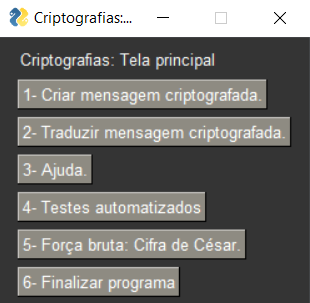
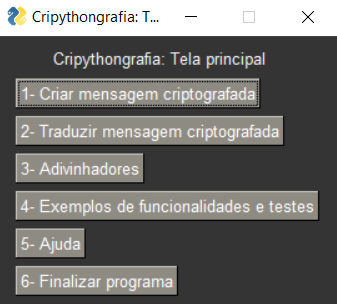
Quase pronto...

diff --git a/main.py b/main.py
@@ -11,21 +11,22 @@ lista_adivinhadores_disponiveis = ['Força bruta César', 'Adivinhador César']
 dic_opçoes_disponiveis = {'Cifra de César': ['apenas letras', 'vários caracteres'],
                           'Substituição simples':['apenas letras', 'vários caracteres'],
                           'Cifra de Vigenère':['apenas letras', 'vários caracteres']}
-dic_link_cifras = {'Cifra de César':'https://github.com/GregorioFornetti/Programa-criptografia/wiki/Cifra-de-C%C3%A9sar',
+dic_links = {'Cifra de César':'https://github.com/GregorioFornetti/Programa-criptografia/wiki/Cifra-de-C%C3%A9sar',
                    'Substituição simples':'https://github.com/GregorioFornetti/Programa-criptografia/wiki/Cifra-de-substitui%C3%A7%C3%A3o-simples',
-                   'Cifra de Vigenère':'https://github.com/GregorioFornetti/Programa-criptografia/wiki/Cifra-de-Vigen%C3%A8re'}
+                   'Cifra de Vigenère':'https://github.com/GregorioFornetti/Programa-criptografia/wiki/Cifra-de-Vigen%C3%A8re',
+                   'Wiki':'https://github.com/GregorioFornetti/Cripythongrafia/wiki'}
 
 def main():
     # Layout da interface principal do programa.
-    layout_principal =  [[sg.Text('Criptografias: Tela principal')],
-                        [sg.Button('1- Criar mensagem criptografada.', key='1')],
-                        [sg.Button('2- Traduzir mensagem criptografada.', key='2')],
-                        [sg.Button('3- Ajuda.', key='3')],
-                        [sg.Button('4- Testes automatizados', key='4')],
-                        [sg.Button('5- Adivinhadores', key='5')],
+    layout_principal =  [[sg.Text('       Cripythongrafia: Tela principal')],
+                        [sg.Button('1- Criar mensagem criptografada', key='1')],
+                        [sg.Button('2- Traduzir mensagem criptografada', key='2')],
+                        [sg.Button('3- Adivinhadores', key='3')],
+                        [sg.Button('4- Exemplos de funcionalidades e testes', key='4')],
+                        [sg.Button('5- Ajuda', key='5')],
                         [sg.Button('6- Finalizar programa', key='6')]]
     # Criar a interface principal do programa, utilizando o layout a cima.
-    tela_principal = sg.Window('Criptografias: Tela principal',layout_principal)
+    tela_principal = sg.Window('Cripythongrafia: Tela principal',layout_principal)
     while True:  # Loop que verifica cada interação do usuário com o programa.
         evento, valores = tela_principal.read()
         if evento in ('6', None):
@@ -33,25 +34,24 @@ def main():
             tela_principal.close()
             break
         if evento == '1':
-            # Esconder a tela principal e iniciar a interface "encriptar".
+            # Iniciar interface "encriptar".
             tela_principal.Hide()
             menu_encriptar(tela_principal)
         if evento == '2':
-            # Esconder a tela principal e iniciar a interface "traduzir".
+            # Iniciar a interface "traduzir".
             tela_principal.Hide()
             menu_traducao(tela_principal)
         if evento == '3':
-            # Esconder a tela principal e iniciar a interface "documentação".
+            # Inicar interface "adivinhador"
             tela_principal.Hide()
-            menu_documentacao(tela_principal)
+            menu_adivinhador(tela_principal)
         if evento == '4':
-            # Esconder a tela principal e iniciar a interface "testes automatizados".
+            # Iniciar a interface "testes automatizados".
             tela_principal.Hide()
             menu_testes(tela_principal)
         if evento == '5':
-            # Esconder a tela principal e inicar a interface "força bruta".
-            tela_principal.Hide()
-            menu_adivinhador(tela_principal)
+            # Abrir wiki ajuda
+            webbrowser.open(dic_links['Wiki'])
 
 
 def cria_layout_opcoes_enumeradas(titulo, lista_opcoes):
@@ -99,8 +99,8 @@ def retorna_layout_padrao_encriptaçao(titulo, criptografia):
 
 
 def menu_encriptar(tela_anterior):
-    layout_encriptar = cria_layout_opcoes_enumeradas('Cripythografia: encriptar', lista_criptografias_disponiveis)
-    tela_encriptar = sg.Window('Criptografias: encriptar', layout_encriptar)
+    layout_encriptar = cria_layout_opcoes_enumeradas('Cripythografia: Menu encriptação', lista_criptografias_disponiveis)
+    tela_encriptar = sg.Window('Cripythongrafia: Menu encriptação', layout_encriptar)
     while True:
         evento, valores = tela_encriptar.read()
         if evento in ('retornar', None):
@@ -116,8 +116,8 @@ def menu_encriptar(tela_anterior):
 
 
 def menu_traducao(tela_anterior):
-    layout_traduzir = cria_layout_opcoes_enumeradas('CripythonGrafia: traduzir', lista_criptografias_disponiveis)
-    tela_traduzir = sg.Window('Criptografias: traduzir', layout_traduzir)
+    layout_traduzir = cria_layout_opcoes_enumeradas('Cripythongrafia: Menu tradução', lista_criptografias_disponiveis)
+    tela_traduzir = sg.Window('Cripythongrafia: Menu tradução', layout_traduzir)
     while True:
         evento, valores = tela_traduzir.read()
         if evento in ('retornar', None):
@@ -133,14 +133,14 @@ def menu_traducao(tela_anterior):
 
 
 def menu_cesar_encriptar(tela_anterior):
-    layout_cesar_encript = retorna_layout_padrao_encriptaçao('PythonGrafia: Cifra de César (encriptação)', 'Cifra de César')
-    tela_cesar_encript = sg.Window('PythonGrafia: Cifra de César', layout_cesar_encript)
+    layout_cesar_encript = retorna_layout_padrao_encriptaçao(f"{'Cripythongrafia: Cifra de César (encriptação)':^110}", 'Cifra de César')
+    tela_cesar_encript = sg.Window('Cripythongrafia: Cifra de César', layout_cesar_encript)
     while True:
         evento, valores = tela_cesar_encript.read()
         if evento in ('retornar', None):
             voltar_para_tela_anterior(tela_anterior, tela_cesar_encript)
             break
-        verificar_eventos_gerais_cifras('Cifra de César', evento, tela_cesar_encript)
+        verificar_eventos_gerais('Cifra de César', evento, tela_cesar_encript)
         if evento == 'encriptar':
             if valores['apenas letras']:
                 print(cifra_de_cesar.encriptar_modo_apenas_letras(valores['chave'], valores['mensagem']))
@@ -149,14 +149,14 @@ def menu_cesar_encriptar(tela_anterior):
 
 
 def menu_cesar_traduzir(tela_anterior):
-    layout_cesar_traduc = retorna_layout_padrao_traduçao('PythonGrafia: Cifra de César (tradução)', 'Cifra de César')
-    tela_cesar_traduc = sg.Window('PythonGrafia: Cifra de César', layout_cesar_traduc)
+    layout_cesar_traduc = retorna_layout_padrao_traduçao(f"{'Cripythongrafia: Cifra de César (tradução)':^110}", 'Cifra de César')
+    tela_cesar_traduc = sg.Window('Cripythongrafia: Cifra de César', layout_cesar_traduc)
     while True:
         evento, valores = tela_cesar_traduc.read()
         if evento in ('retornar', None):
             voltar_para_tela_anterior(tela_anterior, tela_cesar_traduc)
             break
-        verificar_eventos_gerais_cifras('Cifra de César', evento, tela_cesar_traduc)
+        verificar_eventos_gerais('Cifra de César', evento, tela_cesar_traduc)
         if evento == 'traduzir':
             if valores['apenas letras']:
                 print(cifra_de_cesar.traduzir_modo_apenas_letras(valores['chave'], valores['mensagem']))
@@ -166,15 +166,15 @@ def menu_cesar_traduzir(tela_anterior):
 
 def menu_subst_simples_encriptar(tela_anterior):
     # Criando o layout da substituição simples.
-    layout_subst_encript = retorna_layout_padrao_encriptaçao('PythonGrafia: Substituição simples (encriptação)', 'Substituição simples')
+    layout_subst_encript = retorna_layout_padrao_encriptaçao(f"{'Cripythongrafia: Substituição simples (encriptação)':^110}", 'Substituição simples')
     layout_subst_encript = organiza_layout_subst_simples(layout_subst_encript)
-    tela_subst_encript = sg.Window('PythonGrafia: substituição simples', layout_subst_encript)
+    tela_subst_encript = sg.Window('Cripythongrafia: substituição simples', layout_subst_encript)
     while True:
         evento, valores = tela_subst_encript.read()
         if evento in ('retornar', None):
             voltar_para_tela_anterior(tela_anterior, tela_subst_encript)
             break
-        verificar_eventos_gerais_cifras('Substituição simples', evento, tela_subst_encript)
+        verificar_eventos_gerais('Substituição simples', evento, tela_subst_encript)
         if evento == 'encriptar':
             if valores['apenas letras']:
                 print(subst_simples.executar_modo_apenas_letras(valores['chave_1'], valores['chave_2'], valores['mensagem']))
@@ -183,15 +183,15 @@ def menu_subst_simples_encriptar(tela_anterior):
 
 
 def menu_subst_simples_traduzir(tela_anterior):
-    layout_subst_traduc = retorna_layout_padrao_traduçao('PythonGrafia: Substituição simples (tradução)', 'Substituição simples')
+    layout_subst_traduc = retorna_layout_padrao_traduçao(f"{'Cripythongrafia: Substituição simples (tradução)':^110}", 'Substituição simples')
     layout_subst_traduc = organiza_layout_subst_simples(layout_subst_traduc)
-    tela_subst_traduc = sg.Window('PythonGrafia: substituição simples', layout_subst_traduc)
+    tela_subst_traduc = sg.Window('Cripythongrafia: substituição simples', layout_subst_traduc)
     while True:
         evento, valores = tela_subst_traduc.read()
         if evento in ('retornar', None):
             voltar_para_tela_anterior(tela_anterior, tela_subst_traduc)
             break
-        verificar_eventos_gerais_cifras('Substituição simples', evento, tela_subst_traduc)
+        verificar_eventos_gerais('Substituição simples', evento, tela_subst_traduc)
         if evento == 'traduzir':
             if valores['apenas letras']:
                 print(subst_simples.executar_modo_apenas_letras(valores['chave_2'], valores['chave_1'], valores['mensagem']))
@@ -208,14 +208,14 @@ def organiza_layout_subst_simples(layout):
 
 
 def menu_vigenere_encriptar(tela_anterior):
-    layout_vigenere_encript = retorna_layout_padrao_encriptaçao('PythonGrafia: Cifra de Vigenère (encriptação)', 'Cifra de Vigenère')
-    tela_vigenere_encript = sg.Window('PythonGrafia: Cifra de Vigenère', layout_vigenere_encript)
+    layout_vigenere_encript = retorna_layout_padrao_encriptaçao(f"{'Cripythongrafia: Cifra de Vigenère (encriptação)':^110}", 'Cifra de Vigenère')
+    tela_vigenere_encript = sg.Window('Cripythongrafia: Cifra de Vigenère', layout_vigenere_encript)
     while True:
         evento, valores = tela_vigenere_encript.read()
         if evento in ('retornar', None):
             voltar_para_tela_anterior(tela_anterior, tela_vigenere_encript)
             break
-        verificar_eventos_gerais_cifras('Cifra de Vigenère', evento, tela_vigenere_encript)
+        verificar_eventos_gerais('Cifra de Vigenère', evento, tela_vigenere_encript)
         if evento == 'encriptar':
             if valores['apenas letras']:
                 print(cifra_de_vigenere.encriptar_modo_apenas_letras(valores['chave'], valores['mensagem']))
@@ -224,14 +224,14 @@ def menu_vigenere_encriptar(tela_anterior):
 
 
 def menu_vigenere_traduzir(tela_anterior):
-    layout_vigenere_traduc = retorna_layout_padrao_traduçao('PythonGrafia: Cifra de Vigenère (tradução)', 'Cifra de Vigenère')
-    tela_vigenere_traduc = sg.Window('PythonGrafia: Cifra de Vigenère', layout_vigenere_traduc)
+    layout_vigenere_traduc = retorna_layout_padrao_traduçao(f"{'Cripythongrafia: Cifra de Vigenère (tradução)':^110}", 'Cifra de Vigenère')
+    tela_vigenere_traduc = sg.Window('Cripythongrafia: Cifra de Vigenère', layout_vigenere_traduc)
     while True:
         evento, valores = tela_vigenere_traduc.read()
         if evento in ('retornar', None):
             voltar_para_tela_anterior(tela_anterior, tela_vigenere_traduc)
             break
-        verificar_eventos_gerais_cifras('Cifra de Vigenère', evento, tela_vigenere_traduc)
+        verificar_eventos_gerais('Cifra de Vigenère', evento, tela_vigenere_traduc)
         if evento == 'traduzir':
             if valores['apenas letras']:
                 print(cifra_de_vigenere.traduzir_modo_apenas_letras(valores['chave'], valores['mensagem']))
@@ -239,49 +239,29 @@ def menu_vigenere_traduzir(tela_anterior):
                 print(cifra_de_vigenere.traduzir_modo_varios_caracteres(valores['chave'], valores['mensagem']))
 
 
-def menu_documentacao(tela_anterior):
-    # Layou do menu de ajuda.
-    layout_documentacao = [[sg.Text('        Menu de ajuda         ')],
-                          [sg.Text('Na opção 1 do menu principal, escolha uma cifra, uma mensagem')],
-                          [sg.Text('e uma chave, e caso a chave seja valida, será imprimido uma mensagem encriptada')],
-                          [sg.Text('Na opção 2 do menu principal, escolha uma cifra, uma mensagem encriptada')],
-                          [sg.Text('e uma chave, e caso a chave seja valida, será imprimido uma mensagem traduzida')],
-                          [sg.Text('Na opção 4, é possível ver alguns testes, que podem ajudar no entendimento')],
-                          [sg.Text('das cifras disponiveis e suas funcionalidades.')],
-                          [sg.Text('Acesse o site abaixo para ter mais informações:')],
-                          [sg.Output()],
-                          [sg.Button('Retornar',key='retornar')]]
-    tela_doc = sg.Window('Menu ajuda', layout_documentacao)
-    ja_mostrou = False
-    while True:
-        evento, valores = tela_doc.read(timeout=1000)
-        if not ja_mostrou:  # Mostrar o link apenas uma vez.
-            print('https://github.com/GregorioFornetti/Programa-criptografia/wiki')
-            ja_mostrou = True
-        if evento in ('retornar', None):
-            voltar_para_tela_anterior(tela_anterior, tela_doc)
-            break
-
-
 def menu_testes(tela_anterior):
-    layout_testes = [[sg.Text('Testes automatizados para verificar se o programa está funcionando corretamente.')],
-                    [sg.Output(size=(120,40))],
-                    [sg.Button('Retornar',key='retornar'), sg.Button('Testar',key='testar')]]
+    layout_testes = [[sg.Text(f"{'Cripythongrafia: Exemplos de funcionalidade e testes':^110}")],
+                    [sg.Text('Clique em "testar" para iniciar alguns testes nas cifras disponíveis no programa.')],
+                    [sg.Text('Além disso, você pode utilizar esses testes como exemplos para entender melhor\nsobre o funcionamento das cifras.')],
+                    [sg.Output(size=(75,25), key='output')],
+                    [sg.Button('Testar',key='testar'), sg.Button('Limpar tela', key='limpar'),
+                     sg.Button('Acessar guia', key='link'), sg.Button('Retornar',key='retornar')]]
 
-    tela_testes = sg.Window('Menu testes automatizados', layout_testes)
+    tela_testes = sg.Window('Cripythongrafia: Exemplos de funcionalidade e testes', layout_testes)
     while True:
         evento, valores = tela_testes.read()
         if evento in ('retornar', None):
             voltar_para_tela_anterior(tela_anterior, tela_testes)
             break
-        elif evento in ('testar'):
+        verificar_eventos_gerais('Testes', evento, tela_testes)
+        if evento == 'testar':
             # O usuário clicou em "testar".
             testes_simples.testar()
 
 
 def menu_adivinhador(tela_anterior):
-    layout_adivinhador = cria_layout_opcoes_enumeradas('Cripythongrafia: Adivinhadores', lista_adivinhadores_disponiveis)
-    tela_adivinhador = sg.Window('Cripythongrafia: Adivinhadores', layout_adivinhador)
+    layout_adivinhador = cria_layout_opcoes_enumeradas('Cripythongrafia: Menu adivinhadores', lista_adivinhadores_disponiveis)
+    tela_adivinhador = sg.Window('Cripythongrafia: Menu adivinhadores', layout_adivinhador)
     while True:
         evento, valores = tela_adivinhador.read()
         if evento in ('retornar', None):
@@ -293,14 +273,15 @@ def menu_adivinhador(tela_anterior):
         if evento == 'Adivinhador César':
             menus_adivinhadores.menu_adivinhador_cesar(tela_adivinhador)
 
+
 def voltar_para_tela_anterior(tela_anterior, tela_atual):  # Volta para a tela anterior se usuário escolheu botão "retornar".
     tela_anterior.UnHide()
     tela_atual.Close()
 
 
-def verificar_eventos_gerais_cifras(nome_cifra, evento, tela_atual):  # Verifica e executa eventos disponiveis nos menus das cifras.
+def verificar_eventos_gerais(nome_opcao, evento, tela_atual):  # Verifica e executa eventos disponiveis nos menus das cifras.
     if evento == 'link':
-        webbrowser.open(dic_link_cifras[nome_cifra])
+        webbrowser.open(dic_links[nome_opcao])
     elif evento == 'limpar':
         tela_atual.element('output').update('')
 

diff --git a/Adivinhadores/adivinhador_cesar.py b/Adivinhadores/adivinhador_cesar.py
@@ -2,27 +2,31 @@ import Cifras.cifra_de_cesar as cifra_de_cesar
 import Cifras.utilidades_cifras as utilidades
 
 
-def adivinhar_cesar(mensagem):
-    lista_mensagem = []
-    lista_pontuacao = []
+def adivinhar_cesar_apenas_letras(mensagem):
+    lista_mensagens = []
+    lista_pontuacoes = []
     for chave in range(1, 27):
         nova_mensagem = cifra_de_cesar.traduzir_modo_apenas_letras(str(chave), mensagem)
-        lista_mensagem.append(nova_mensagem)
-        lista_pontuacao.append(calcula_pontuacao(nova_mensagem))
-    index_melhor_possibilidade = lista_pontuacao.index(min(lista_pontuacao))
+        lista_mensagens.append(nova_mensagem)
+        lista_pontuacoes.append(calcula_pontuacao(nova_mensagem.lower()))
+    imprimir_resultados(lista_mensagens, lista_pontuacoes)
 
-    print("Após alguns calculos, a mensagem traduzida com maior probabilidade é: ")
-    print(f"{lista_mensagem[index_melhor_possibilidade]}\n")
-    print("E a chave utilizada foi: ")
-    print(index_melhor_possibilidade + 1)
+
+def adivinhar_cesar_varios_caracteres(mensagem):
+    lista_mensagens = []
+    lista_pontuacoes = []
+    for chave in range(1, 668):
+        nova_mensagem = cifra_de_cesar.traduzir_modo_varios_caracteres(str(chave), mensagem)
+        lista_mensagens.append(nova_mensagem)
+        lista_pontuacoes.append(calcula_pontuacao(nova_mensagem))
+    imprimir_resultados(lista_mensagens, lista_pontuacoes)
 
 
 def calcula_pontuacao(mensagem):
     dicionario_pontuacao_letras = {'a':0, 'b':0, 'c':0, 'd':0, 'e':0, 'f':0, 'g':0, 'h':0, 'i':0, 'j':0, 'k':0,
                                    'l':0, 'm':0, 'n':0, 'o':0, 'p':0, 'q':0, 'r':0, 's':0, 't':0, 'u':0, 'v':0,
                                    'w':0, 'x':0, 'y':0, 'z':0}
-    mensagem = mensagem.lower()
-    total_letras_validas = 0
+    total_letras_validas = 1
     pontuacao_mensagem = 0
     for caractere in mensagem:
         if ord(caractere) > utilidades.MIN_MINUSCULA and ord(caractere) < utilidades.MAX_MINUSCULA:  # Verificar se o caractere atual é uma letra sem acento.
@@ -32,3 +36,11 @@ def calcula_pontuacao(mensagem):
         frequencia_perc_atual = dicionario_pontuacao_letras[letra] / total_letras_validas * 100
         pontuacao_mensagem += abs(frequencia_perc_atual - utilidades.frequencia_alfabeto_pt[letra])
     return pontuacao_mensagem
+
+
+def imprimir_resultados(lista_mensagens, lista_pontuacoes):
+    index_melhor_possibilidade = lista_pontuacoes.index(min(lista_pontuacoes))
+    print("Após alguns calculos, a mensagem traduzida com maior probabilidade de ser correta é: ")
+    print(f"{lista_mensagens[index_melhor_possibilidade]}\n")
+    print("E a chave utilizada para essa tradução foi: ")
+    print(index_melhor_possibilidade + 1)

diff --git a/Menus/menus_adivinhadores.py b/Menus/menus_adivinhadores.py
@@ -42,7 +42,7 @@ def menu_adivinhador_cesar(tela_anterior):
     OBS: dependendo do texto, esse processo pode levar bastante tempo !
     '''
     layout_adivinha_cesar = criar_layout_padrao_advinhador(mensagem_inicial, 'Adivinhador César')
-    tela_adivinha_cesar = sg.Window('Adivinhador César', layout_adivinha_cesar)
+    tela_adivinha_cesar = sg.Window('Cripythongrafia: Adivinhador César', layout_adivinha_cesar)
     while True:
         evento, valores = tela_adivinha_cesar.read()
         if evento in ('retornar', None):
@@ -50,4 +50,7 @@ def menu_adivinhador_cesar(tela_anterior):
             break
         Menus.verificar_eventos_gerais('Cifra de César', evento, tela_adivinha_cesar)
         if evento == 'executar':
-            adivinhador_cesar.adivinhar_cesar(valores['mensagem'])
+            if valores['apenas letras']:
+                adivinhador_cesar.adivinhar_cesar_apenas_letras(valores['mensagem'])
+            else:
+                adivinhador_cesar.adivinhar_cesar_varios_caracteres(valores['mensagem'])

diff --git a/testes_simples.py b/testes_simples.py
@@ -5,9 +5,7 @@ import Cifras.subst_simples as subst_simples
 soma_erros = 0
 
 def testar():  # Função que chamará todos os testes de cifras disponiveis.
-    print('Iniciando os testes automatizados...')
-    print('Aqui serão feitos alguns testes simples...')
-    print('Utilize esses testes para entender melhor sobre o funcionamento das cifras disponíveis.')
+    print('Iniciando testes...')
     testa_cesar_apenas_letras()
     testa_cesar_varios_caracteres()
     testa_subst_simples_apenas_letras()
@@ -212,9 +210,9 @@ def testa_vigenere_varios_caracteres():
 
 def separacoes(cifra):  # Cria uma separação no output gerado.
     print()
-    print('-' * 210)
-    print('{:^190}'.format(cifra))
-    print('-' * 210)
+    print('-' * 131)
+    print('{:^110}'.format(cifra))
+    print('-' * 131)
     print()
 
 

diff --git a/Menus/__init__.py b/Menus/__init__.py
@@ -7,7 +7,7 @@ dic_opcoes = {'Cifra de César': ['apenas letras', 'vários caracteres'],
               'Substituição simples': ['apenas letras', 'vários caracteres'],
               'Cifra de Vigenère': ['apenas letras', 'vários caracteres'],
               'Força bruta César': ['apenas letras', 'vários caracteres'],
-              'Adivinhador César': ['apenas letras']}
+              'Adivinhador César': ['apenas letras', 'vários caracteres']}
 
 def voltar_para_tela_anterior(tela_anterior, tela_atual):  # Volta para a tela anterior se usuário escolheu botão "retornar".
     tela_anterior.UnHide()
